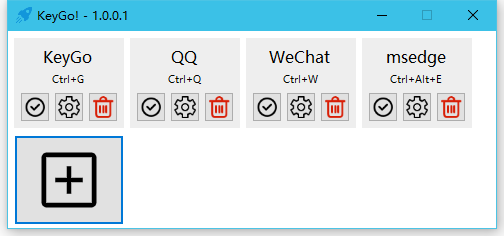
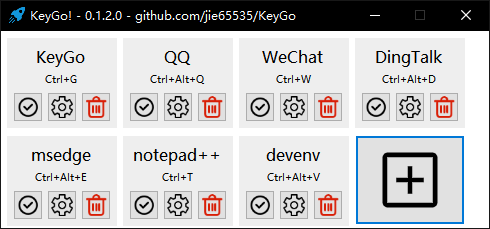
1. 实现 开机自启动功能 2. 修改 启动时请求管理员权限（为了修改注册表设置开机自启动） 3. 修改 运行截图 4. 修改 版本到v0.1.2

diff --git a/KeyGo/FormMain.cs b/KeyGo/FormMain.cs
@@ -4,6 +4,8 @@ using System.IO;
 using System.Reflection;
 using System.Windows.Forms;
 
+using Microsoft.Win32;
+
 namespace KeyGo
 {
     public partial class FormMain : Form
@@ -290,13 +292,39 @@ namespace KeyGo
 
         #endregion 托盘图标管理
 
+        #region 开机自启动
+
         /// <summary>
         /// 设置开机自启动
         /// </summary>
         /// <param name="enable">if set to <c>true</c> [enable].</param>
         private void SetPowerBoot(bool enable)
         {
-            // TODO
+            try
+            {
+                if (enable)
+                {
+                    RegistryKey R_local = Registry.CurrentUser;
+                    RegistryKey R_run = R_local.CreateSubKey(@"SOFTWARE\Microsoft\Windows\CurrentVersion\Run");
+                    R_run.SetValue("KeyGo", Application.ExecutablePath);
+                    R_run.Close();
+                    R_local.Close();
+                }
+                else
+                {
+                    RegistryKey R_local = Registry.CurrentUser;
+                    RegistryKey R_run = R_local.CreateSubKey(@"SOFTWARE\Microsoft\Windows\CurrentVersion\Run");
+                    R_run.DeleteValue("KeyGo", false);
+                    R_run.Close();
+                    R_local.Close();
+                }
+            }
+            catch (Exception ex)
+            {
+                MessageBox.Show("注册表编辑失败：" + ex.Message, "错误", MessageBoxButtons.OK, MessageBoxIcon.Error);
+            }
         }
+
+        #endregion
     }
 }

diff --git a/KeyGo/Properties/AssemblyInfo.cs b/KeyGo/Properties/AssemblyInfo.cs
@@ -5,7 +5,7 @@ using System.Runtime.InteropServices;
 // 控制。更改这些特性值可修改
 // 与程序集关联的信息。
 [assembly: AssemblyTitle("KeyGo")]
-[assembly: AssemblyDescription("通过注册热键 启动/切换到/最小化 预设应用的小工具")]
+[assembly: AssemblyDescription("通过注册热键 启动/切换到/最小化 预设应用的小工具 - 开源地址：https://github.com/jie65535/KeyGo")]
 [assembly: AssemblyConfiguration("")]
 [assembly: AssemblyCompany("")]
 [assembly: AssemblyProduct("KeyGo")]
@@ -31,5 +31,5 @@ using System.Runtime.InteropServices;
 //可以指定所有这些值，也可以使用“生成号”和“修订号”的默认值
 //通过使用 "*"，如下所示:
 // [assembly: AssemblyVersion("1.0.*")]
-[assembly: AssemblyVersion("0.1.1")]
+[assembly: AssemblyVersion("0.1.2")]
 [assembly: AssemblyFileVersion("1.0.0.0")]
